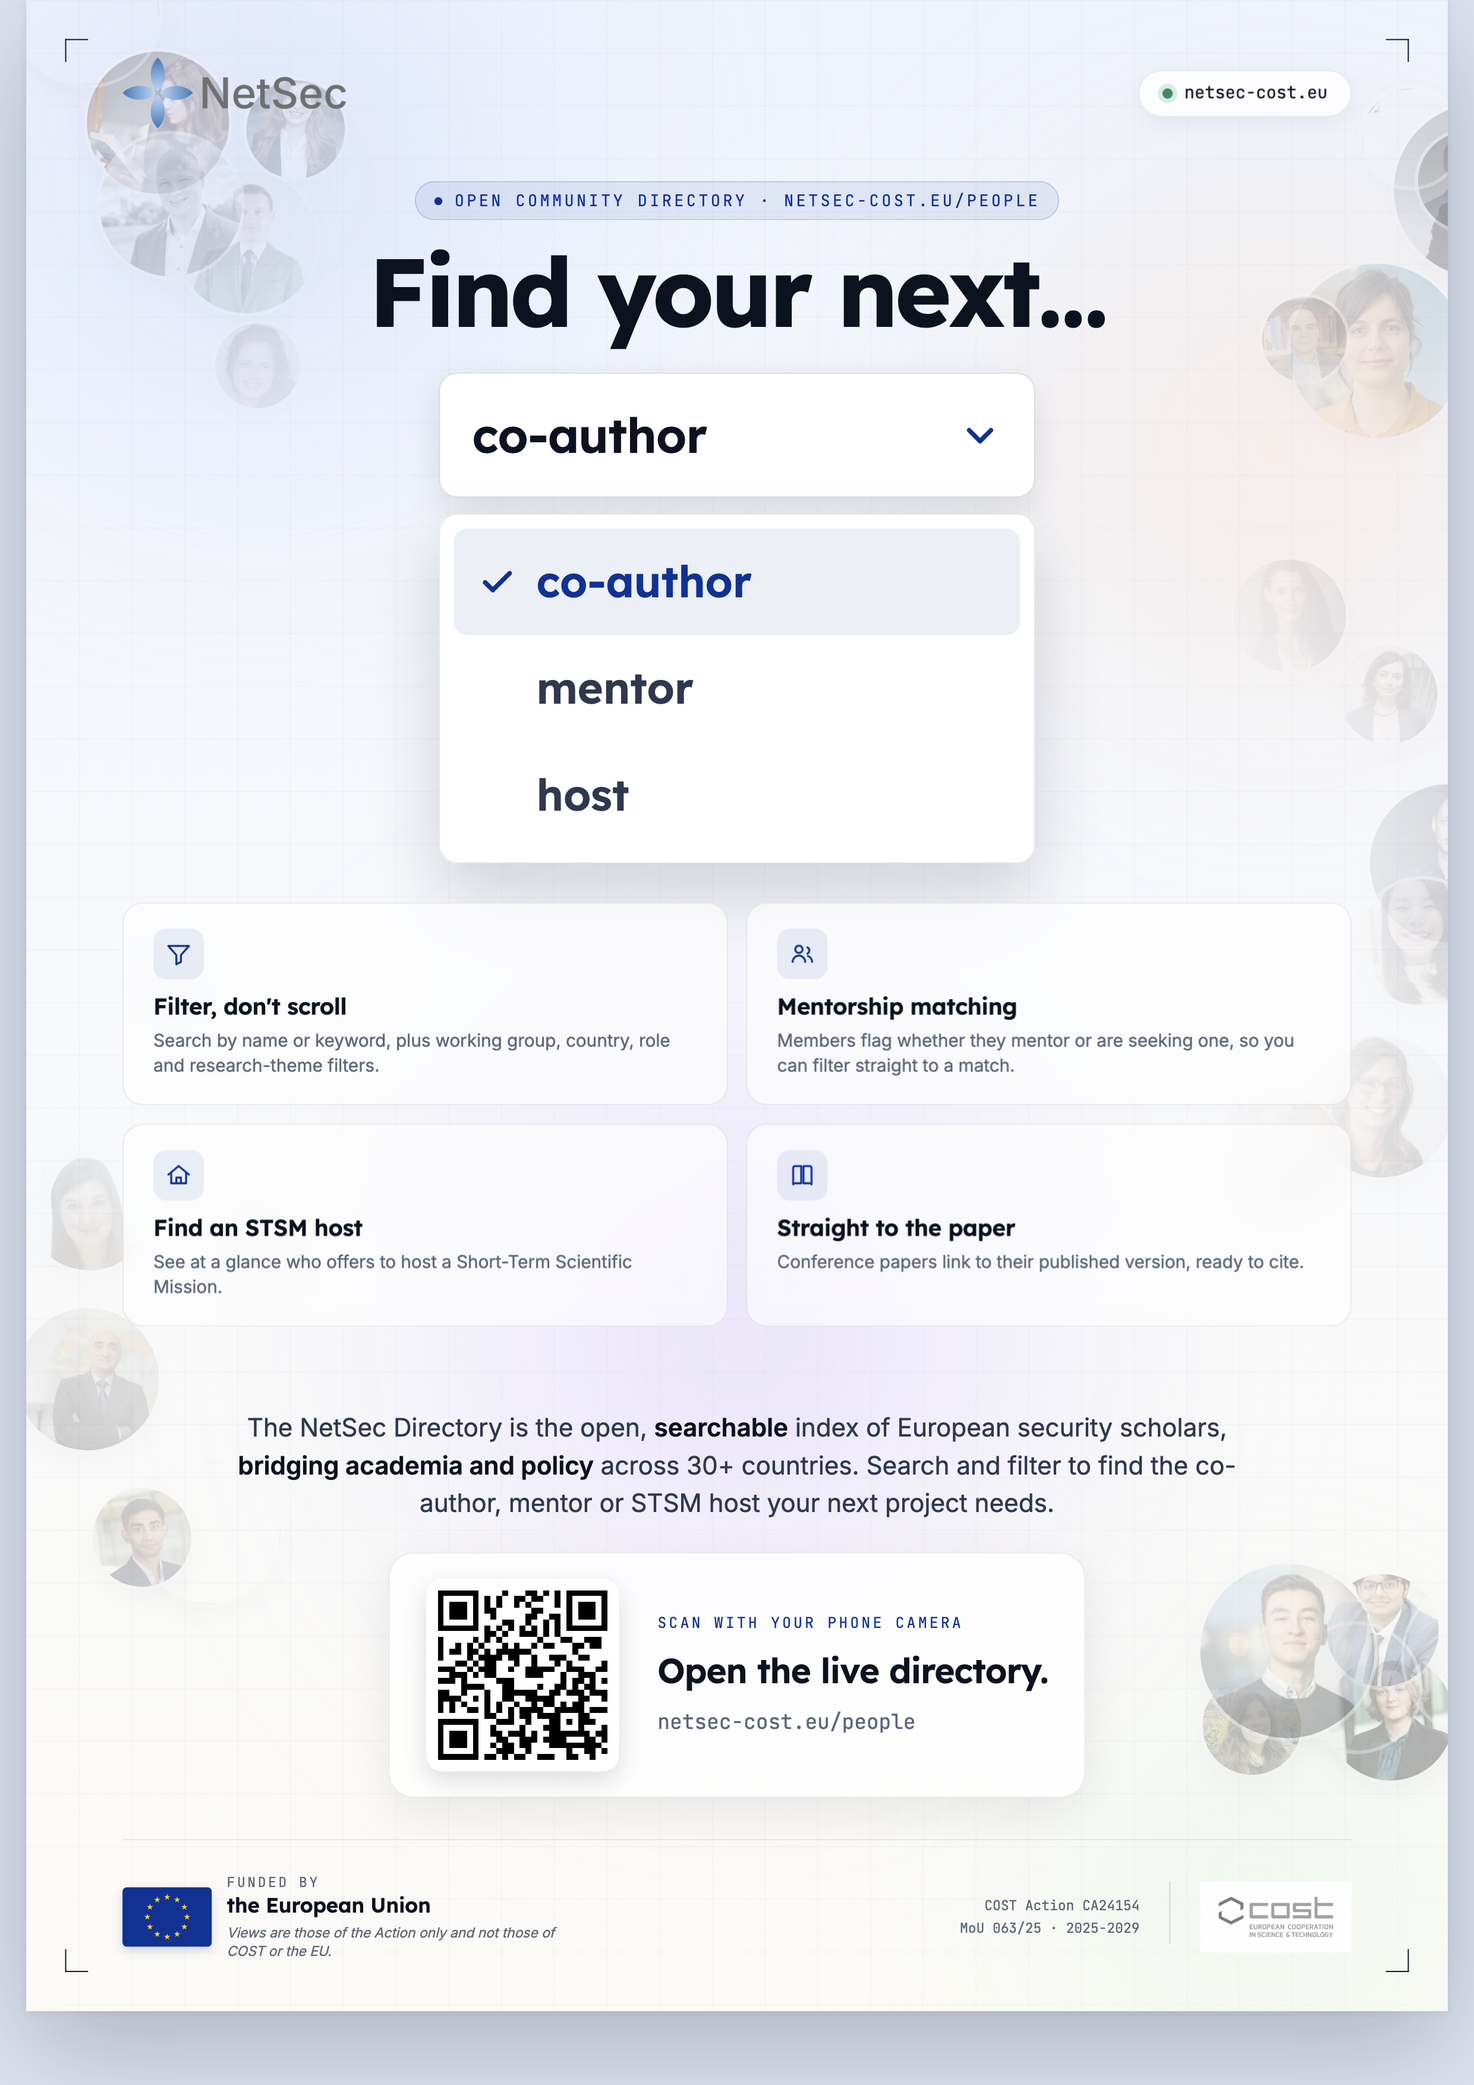
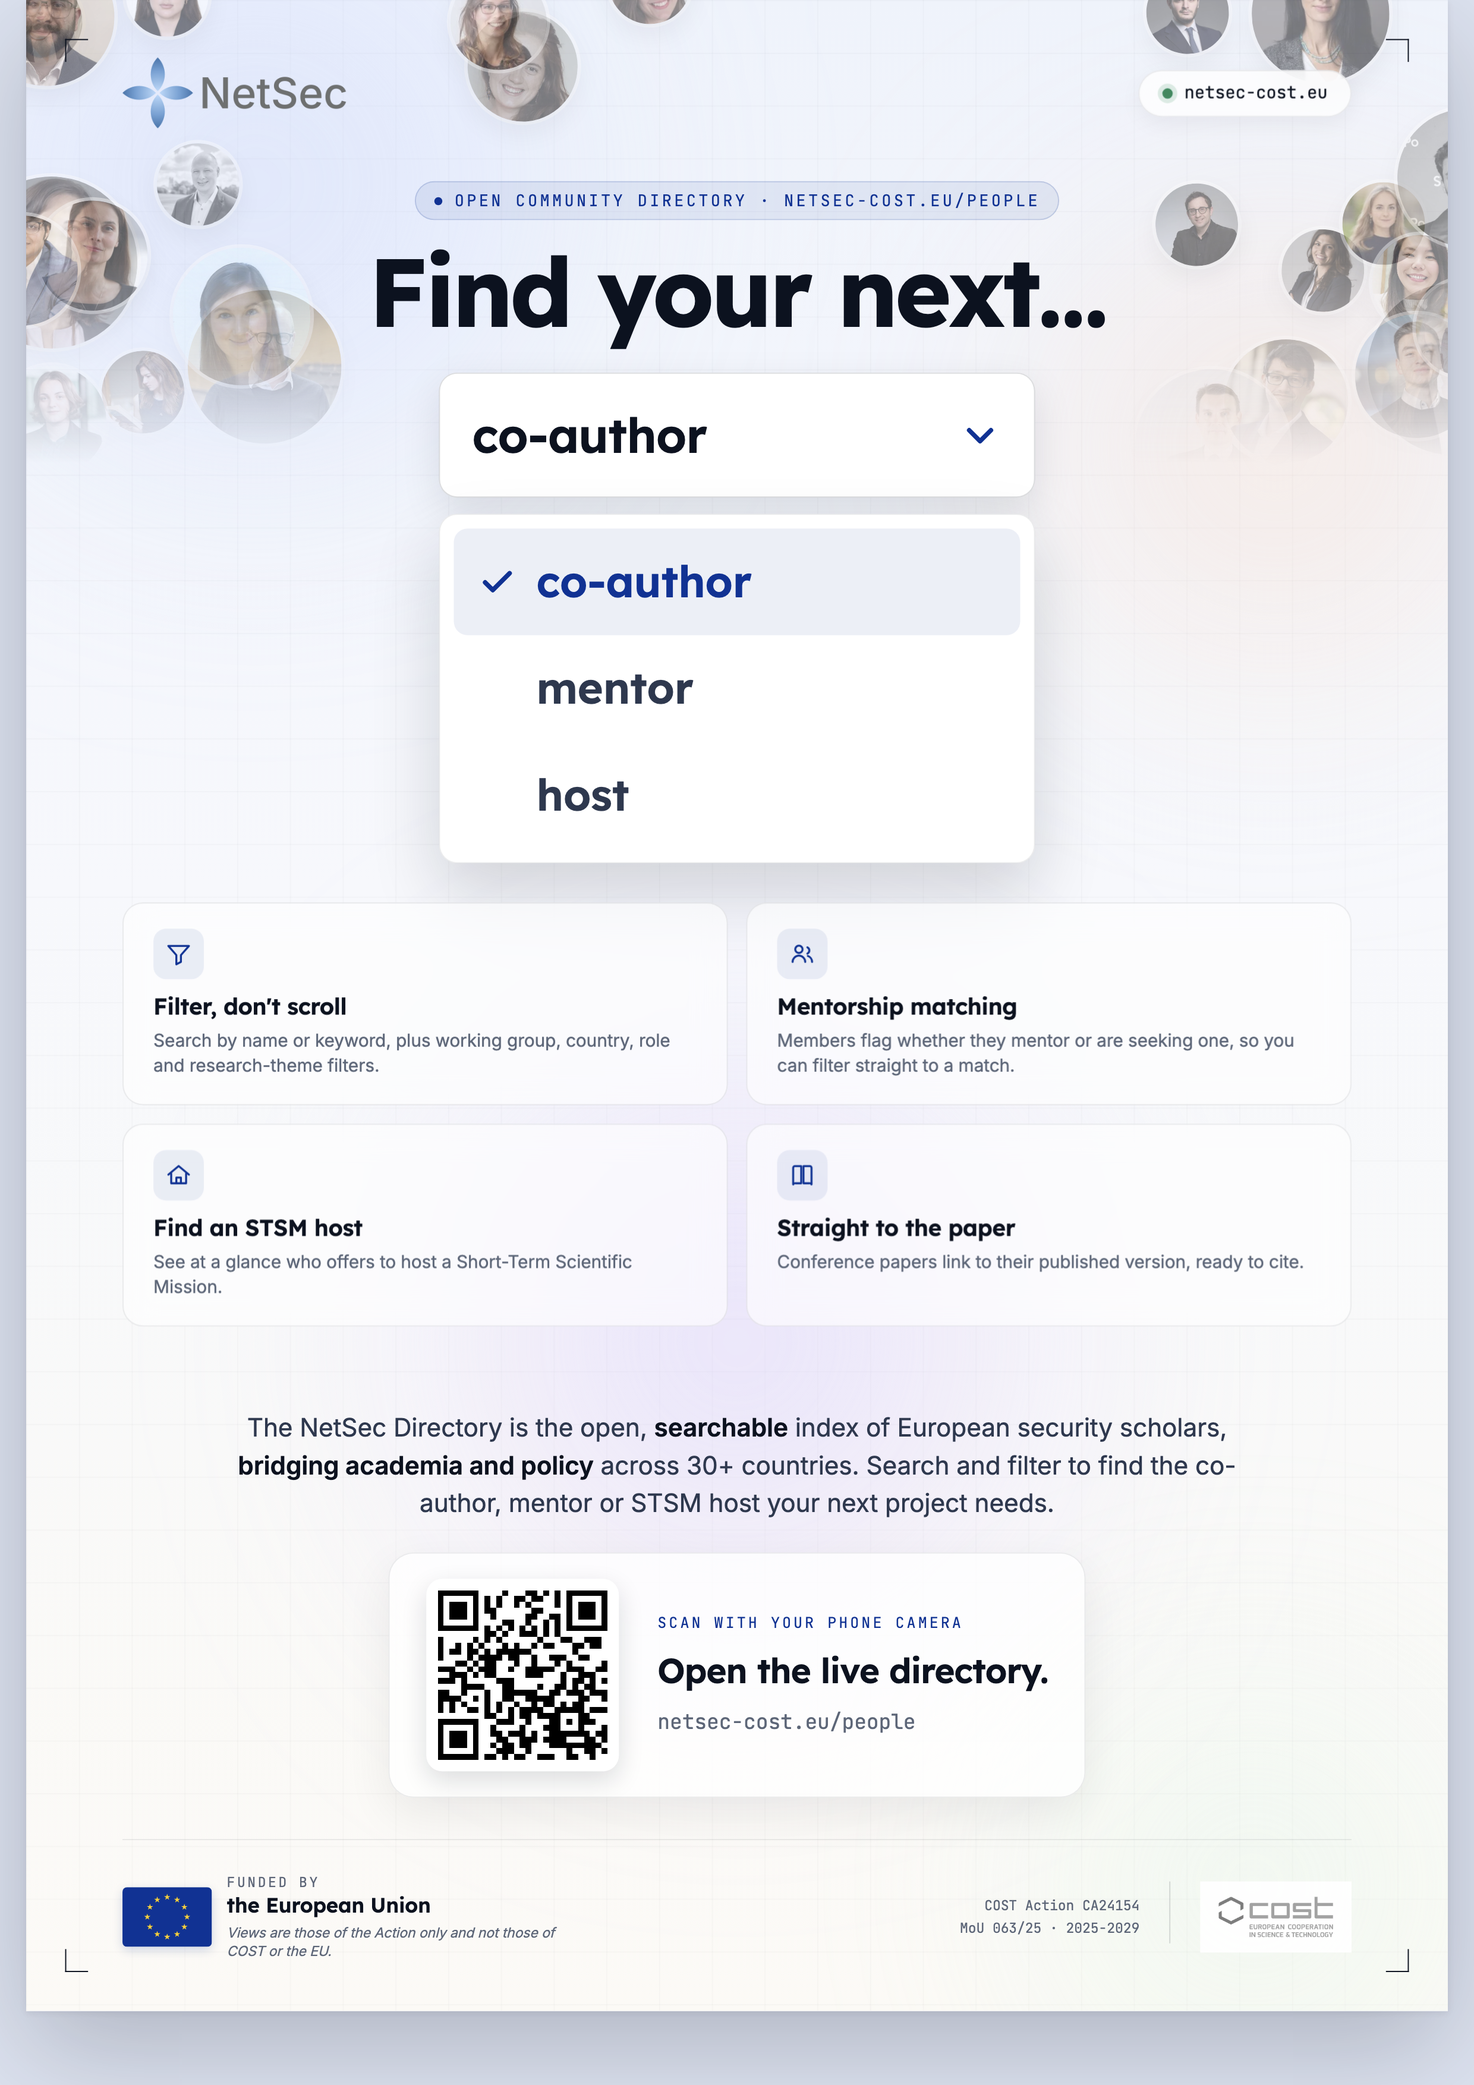
refine(press-kit): move the poster's floating heads to a top crown
The directory-search poster's background headshots now cluster across
the top, flanking the "Find your next…" headline and the top corners,
and fade out before the role selector. Reads as a community crown over
the headline rather than a full-height frame, and keeps the lower half
of the poster clean. Print PNG and small PNG/WebP re-rendered.

diff --git a/docs/promo/poster-find-your-next.html b/docs/promo/poster-find-your-next.html
@@ -141,10 +141,10 @@ h1.title .l{display:block}
 .qr-band .qr-side .qr-h{font-family:var(--serif);font-weight:600;font-size:30px;letter-spacing:-.015em;color:var(--ink);margin-bottom:8px}
 .qr-band .qr-side .qr-u{font-family:var(--mono);font-size:18px;color:var(--muted)}
 
-  /* Floating member heads framing the content (left/right gutters), softly masked */
+  /* Floating member heads crowning the headline at the top, fading down */
   .faces{position:absolute;inset:0;z-index:1;overflow:hidden;pointer-events:none;
-    -webkit-mask-image:radial-gradient(122% 100% at 50% 44%, transparent 30%, rgba(0,0,0,.6) 56%, #000 100%);
-            mask-image:radial-gradient(122% 100% at 50% 44%, transparent 30%, rgba(0,0,0,.6) 56%, #000 100%)}
+    -webkit-mask-image:linear-gradient(180deg,#000 0%,#000 13%,transparent 23%);
+            mask-image:linear-gradient(180deg,#000 0%,#000 13%,transparent 23%)}
   .faces .fh{position:absolute;border-radius:50%;overflow:hidden;opacity:.5;
     box-shadow:0 9px 24px rgba(11,18,32,.12),0 0 0 3px rgba(255,255,255,.82)}
   .faces .fh img{width:100%;height:100%;object-fit:cover;display:block;filter:saturate(.94)}
@@ -161,36 +161,32 @@ h1.title .l{display:block}
       <div class="blob b-mint"  style="width:520px;height:520px;right:-90px;bottom:-150px;opacity:.45"></div>
     </div>
     <div class="faces">
-      <div class="fh" style="left:53px;top:45px;width:124px;height:124px;transform:rotate(6deg)"><img src="/assets/images/people/revecca-pedi.webp" alt="" loading="eager"></div>
-      <div class="fh" style="left:88px;top:808px;width:86px;height:86px;transform:rotate(1deg)"><img src="/assets/images/people/sara-russo.webp" alt="" loading="eager"></div>
-      <div class="fh" style="left:-8px;top:1141px;width:124px;height:124px;transform:rotate(3deg)"><img src="/assets/images/people/seyithan-ahmet-ates.webp" alt="" loading="eager"></div>
-      <div class="fh" style="left:130px;top:149px;width:124px;height:124px;transform:rotate(4deg)"><img src="/assets/images/people/alexander-lanoszka.webp" alt="" loading="eager"></div>
-      <div class="fh" style="left:1120px;top:903px;width:124px;height:124px;transform:rotate(7deg)"><img src="/assets/images/people/chiara-libiseller.webp" alt="" loading="eager"></div>
-      <div class="fh" style="left:1145px;top:563px;width:86px;height:86px;transform:rotate(5deg)"><img src="/assets/images/people/silvia-damato.webp" alt="" loading="eager"></div>
-      <div class="fh" style="left:64px;top:117px;width:124px;height:124px;transform:rotate(-3deg)"><img src="/assets/images/people/john-helferich.webp" alt="" loading="eager"></div>
-      <div class="fh" style="left:1135px;top:1443px;width:110px;height:110px;transform:rotate(-3deg)"><img src="/assets/images/people/rusudan-zabakhidze.webp" alt="" loading="eager"></div>
-      <div class="fh" style="left:0px;top:998px;width:110px;height:110px;transform:rotate(-5deg)"><img src="/assets/images/people/linde-desmaele.webp" alt="" loading="eager"></div>
-      <div class="fh" style="left:1037px;top:951px;width:110px;height:110px;transform:rotate(-7deg)"><img src="/assets/images/people/moritz-weiss.webp" alt="" loading="eager"></div>
-      <div class="fh" style="left:1134px;top:1373px;width:98px;height:98px;transform:rotate(2deg)"><img src="/assets/images/people/archishman-goswami.webp" alt="" loading="eager"></div>
-      <div class="fh" style="left:1193px;top:90px;width:152px;height:152px;transform:rotate(-6deg)"><img src="/assets/images/people/filip-ejdus.webp" alt="" loading="eager"></div>
-      <div class="fh" style="left:1202px;top:1377px;width:138px;height:138px;transform:rotate(-6deg)"><img src="/assets/images/people/anna-pagnacco.webp" alt="" loading="eager"></div>
-      <div class="fh" style="left:98px;top:1275px;width:124px;height:124px;transform:rotate(3deg)"><img src="/assets/images/people/yanina-shved-dogrul.webp" alt="" loading="eager"></div>
-      <div class="fh" style="left:1105px;top:1417px;width:110px;height:110px;transform:rotate(7deg)"><img src="/assets/images/people/gil-baram.webp" alt="" loading="eager"></div>
-      <div class="fh" style="left:971px;top:895px;width:98px;height:98px;transform:rotate(-5deg)"><img src="/assets/images/people/mark-rhinard.webp" alt="" loading="eager"></div>
-      <div class="fh" style="left:192px;top:70px;width:86px;height:86px;transform:rotate(5deg)"><img src="/assets/images/people/meret-steybe.webp" alt="" loading="eager"></div>
-      <div class="fh" style="left:1026px;top:1462px;width:86px;height:86px;transform:rotate(-1deg)"><img src="/assets/images/people/laura-lisboa.webp" alt="" loading="eager"></div>
-      <div class="fh" style="left:1214px;top:115px;width:86px;height:86px;transform:rotate(0deg)"><img src="/assets/images/people/francesco-canossi.webp" alt="" loading="eager"></div>
-      <div class="fh" style="left:1102px;top:230px;width:152px;height:152px;transform:rotate(-1deg)"><img src="/assets/images/people/chiara-ruffa.webp" alt="" loading="eager"></div>
-      <div class="fh" style="left:1172px;top:684px;width:138px;height:138px;transform:rotate(7deg)"><img src="/assets/images/people/lucian-bumeder.webp" alt="" loading="eager"></div>
-      <div class="fh" style="left:1078px;top:259px;width:74px;height:74px;transform:rotate(-5deg)"><img src="/assets/images/people/nikolaos-tzifakis.webp" alt="" loading="eager"></div>
-      <div class="fh" style="left:58px;top:1298px;width:86px;height:86px;transform:rotate(-7deg)"><img src="/assets/images/people/saurav-narain.webp" alt="" loading="eager"></div>
-      <div class="fh" style="left:1053px;top:488px;width:98px;height:98px;transform:rotate(-7deg)"><img src="/assets/images/people/sarka-kolmasova.webp" alt="" loading="eager"></div>
-      <div class="fh" style="left:154px;top:1044px;width:98px;height:98px;transform:rotate(2deg)"><img src="/assets/images/people/eliza-gheorghe.webp" alt="" loading="eager"></div>
-      <div class="fh" style="left:1024px;top:1364px;width:152px;height:152px;transform:rotate(1deg)"><img src="/assets/images/people/pieter-zhao.webp" alt="" loading="eager"></div>
-      <div class="fh" style="left:1163px;top:767px;width:110px;height:110px;transform:rotate(-6deg)"><img src="/assets/images/people/wendy-he.webp" alt="" loading="eager"></div>
-      <div class="fh" style="left:1165px;top:77px;width:86px;height:86px;transform:rotate(-6deg)"><img src="/assets/images/people/eugenio-sanchez.webp" alt="" loading="eager"></div>
-      <div class="fh" style="left:165px;top:282px;width:74px;height:74px;transform:rotate(-2deg)"><img src="/assets/images/people/marie-robin.webp" alt="" loading="eager"></div>
-      <div class="fh" style="left:-8px;top:-50px;width:124px;height:124px;transform:rotate(-5deg)"><img src="/assets/images/people/julia-carver.webp" alt="" loading="eager"></div>
+      <div class="fh" style="left:977px;top:-25px;width:72px;height:72px;transform:rotate(-4deg)"><img src="/assets/images/people/francesco-canossi.webp" alt="" loading="eager"></div>
+      <div class="fh" style="left:1170px;top:247px;width:150px;height:150px;transform:rotate(-4deg)"><img src="/assets/images/people/meret-steybe.webp" alt="" loading="eager"></div>
+      <div class="fh" style="left:1095px;top:200px;width:72px;height:72px;transform:rotate(3deg)"><img src="/assets/images/people/sara-russo.webp" alt="" loading="eager"></div>
+      <div class="fh" style="left:385px;top:10px;width:96px;height:96px;transform:rotate(5deg)"><img src="/assets/images/people/marie-robin.webp" alt="" loading="eager"></div>
+      <div class="fh" style="left:87px;top:-40px;width:72px;height:72px;transform:rotate(2deg)"><img src="/assets/images/people/yanina-shved-dogrul.webp" alt="" loading="eager"></div>
+      <div class="fh" style="left:1148px;top:159px;width:72px;height:72px;transform:rotate(2deg)"><img src="/assets/images/people/julia-carver.webp" alt="" loading="eager"></div>
+      <div class="fh" style="left:-53px;top:154px;width:150px;height:150px;transform:rotate(7deg)"><img src="/assets/images/people/gil-baram.webp" alt="" loading="eager"></div>
+      <div class="fh" style="left:66px;top:306px;width:72px;height:72px;transform:rotate(-7deg)"><img src="/assets/images/people/revecca-pedi.webp" alt="" loading="eager"></div>
+      <div class="fh" style="left:1174px;top:205px;width:84px;height:84px;transform:rotate(4deg)"><img src="/assets/images/people/wendy-he.webp" alt="" loading="eager"></div>
+      <div class="fh" style="left:1159px;top:274px;width:108px;height:108px;transform:rotate(-6deg)"><img src="/assets/images/people/pieter-zhao.webp" alt="" loading="eager"></div>
+      <div class="fh" style="left:141px;top:253px;width:134px;height:134px;transform:rotate(2deg)"><img src="/assets/images/people/moritz-weiss.webp" alt="" loading="eager"></div>
+      <div class="fh" style="left:-23px;top:-17px;width:72px;height:72px;transform:rotate(-4deg)"><img src="/assets/images/people/silvia-damato.webp" alt="" loading="eager"></div>
+      <div class="fh" style="left:1069px;top:-48px;width:120px;height:120px;transform:rotate(-2deg)"><img src="/assets/images/people/sarka-kolmasova.webp" alt="" loading="eager"></div>
+      <div class="fh" style="left:1045px;top:296px;width:108px;height:108px;transform:rotate(7deg)"><img src="/assets/images/people/arthur-laudrain.webp" alt="" loading="eager"></div>
+      <div class="fh" style="left:985px;top:160px;width:72px;height:72px;transform:rotate(-6deg)"><img src="/assets/images/people/filip-ejdus.webp" alt="" loading="eager"></div>
+      <div class="fh" style="left:1196px;top:95px;width:120px;height:120px;transform:rotate(-5deg)"><img src="/assets/images/people/eugenio-sanchez.webp" alt="" loading="eager"></div>
+      <div class="fh" style="left:370px;top:-23px;width:84px;height:84px;transform:rotate(0deg)"><img src="/assets/images/people/chiara-libiseller.webp" alt="" loading="eager"></div>
+      <div class="fh" style="left:508px;top:-51px;width:72px;height:72px;transform:rotate(-3deg)"><img src="/assets/images/people/alisa-kerschbaum.webp" alt="" loading="eager"></div>
+      <div class="fh" style="left:128px;top:216px;width:120px;height:120px;transform:rotate(-5deg)"><img src="/assets/images/people/linde-desmaele.webp" alt="" loading="eager"></div>
+      <div class="fh" style="left:10px;top:175px;width:96px;height:96px;transform:rotate(3deg)"><img src="/assets/images/people/eliza-gheorghe.webp" alt="" loading="eager"></div>
+      <div class="fh" style="left:1212px;top:244px;width:84px;height:84px;transform:rotate(2deg)"><img src="/assets/images/people/seyithan-ahmet-ates.webp" alt="" loading="eager"></div>
+      <div class="fh" style="left:-51px;top:188px;width:96px;height:96px;transform:rotate(4deg)"><img src="/assets/images/people/archishman-goswami.webp" alt="" loading="eager"></div>
+      <div class="fh" style="left:-43px;top:-45px;width:120px;height:120px;transform:rotate(3deg)"><img src="/assets/images/people/mattia-sguazzini.webp" alt="" loading="eager"></div>
+      <div class="fh" style="left:-26px;top:319px;width:96px;height:96px;transform:rotate(-2deg)"><img src="/assets/images/people/rusudan-zabakhidze.webp" alt="" loading="eager"></div>
+      <div class="fh" style="left:967px;top:322px;width:134px;height:134px;transform:rotate(4deg)"><img src="/assets/images/people/alexander-lanoszka.webp" alt="" loading="eager"></div>
+      <div class="fh" style="left:114px;top:125px;width:72px;height:72px;transform:rotate(3deg)"><img src="/assets/images/people/john-helferich.webp" alt="" loading="eager"></div>
     </div>
     <span class="corner tl"></span><span class="corner tr"></span>
     <span class="corner bl"></span><span class="corner br"></span>

diff --git a/CHANGELOG.md b/CHANGELOG.md
@@ -123,7 +123,7 @@ maintainer-facing audience.
 ## [Unreleased]
 
 #### Added
-- A third press-kit poster, the directory-search poster (`docs/promo/poster-find-your-next.html`, A4 portrait), promotes what the Directory lets you do rather than recruiting bios. It reuses the "Find your next…" headline over the directory's role selector (co-author, mentor or host), four capability tiles (filter the directory, mentorship matching, find an STSM host, papers that link to their published version), and a QR code that opens the directory at `netsec-cost.eu/people`. The original "Add your bio" directory poster is unchanged. Listed on the press kit in all three locales with print-PNG and small-PNG downloads, hand-translated for FR and DE. Its background carries a soft frame of member headshots, drifting down the margins to put real faces on the directory.
+- A third press-kit poster, the directory-search poster (`docs/promo/poster-find-your-next.html`, A4 portrait), promotes what the Directory lets you do rather than recruiting bios. It reuses the "Find your next…" headline over the directory's role selector (co-author, mentor or host), four capability tiles (filter the directory, mentorship matching, find an STSM host, papers that link to their published version), and a QR code that opens the directory at `netsec-cost.eu/people`. The original "Add your bio" directory poster is unchanged. Listed on the press kit in all three locales with print-PNG and small-PNG downloads, hand-translated for FR and DE. Its background crowns the “Find your next…” headline with a soft band of member headshots, fading down before the selector, to put real faces on the directory.
 - The News system gains a working archive and issue-driven publishing, bringing it to parity with the sister EISS site. The `/news` page (all three locales) now renders the full chronological list of items from `data/news.json` (each card deep-linkable at `#news-<id>`), where it was a static "archive is empty" placeholder; the home-page "Latest News" block now caps at four items and decays anything older than 18 months, so older items live on in the archive and the RSS feed. Labelling a GitHub issue `news` now publishes it: a workflow reads the issue (with optional `Type:`/`URL:`/`Date:` headers), prepends the item to `data/news.json`, regenerates the feed, and opens an auto-merging PR that closes the issue. Documented in `docs/news-publishing.md`.
 - The Training School page (`/summer-school.html`, all three locales) is rebuilt around editions rather than a single year. It now carries the COST-compliant name "NetSec Training School" (with the Early-Career Scholars Summer School / ECS³ as the subtitle), a forward-looking "next edition" module, and a "past editions" archive, both driven by a new `data/training-school.json` through a light renderer. The next-edition module shows the 2027 edition as "to be announced" with no calendar yet; when an edition is announced with a date, an Add-to-calendar affordance appears on its own. The 2026 archive entry carries the cohort, coordinators, topics, and a photo gallery from the Stockholm edition. The page links directly to EISS's Euro-SWAMOS page, Julia Carver (a Working Group participant) joins the directory so her faculty headshot resolves, and Nicolas Blarel's faculty card now carries his photo. Hand-translated for FR and DE.
 - An "In pictures" photo gallery on the archived ESSC 2026 page (all three locales), between the recap reel and the programme, so the past-conference page reads as a livelier record. The four photos are responsive and lazy-loaded. Training School signposting also improved across the site: a cross-link from the Grants page (the early-career audiences overlap), and the home news card and the visual sitemap now use the "Training School" name. Hand-translated for FR and DE.
